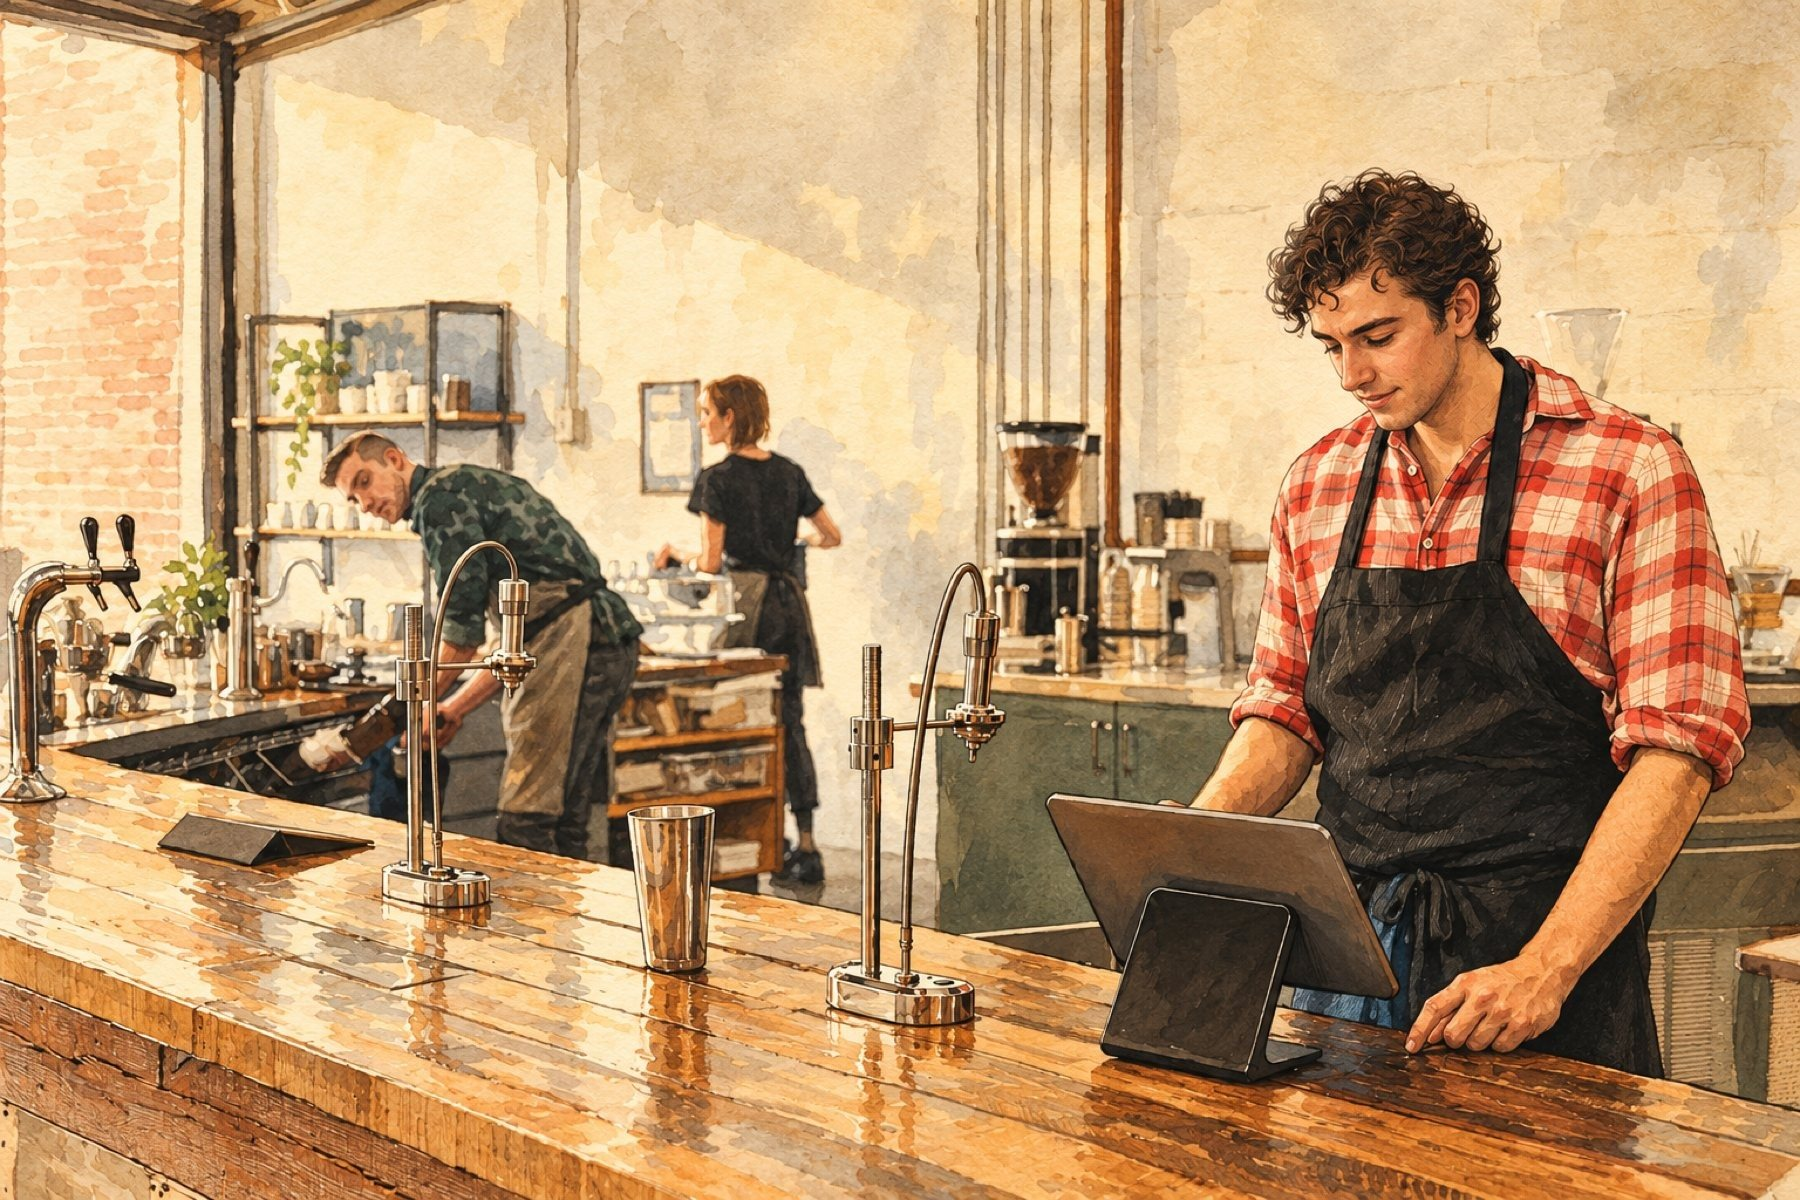
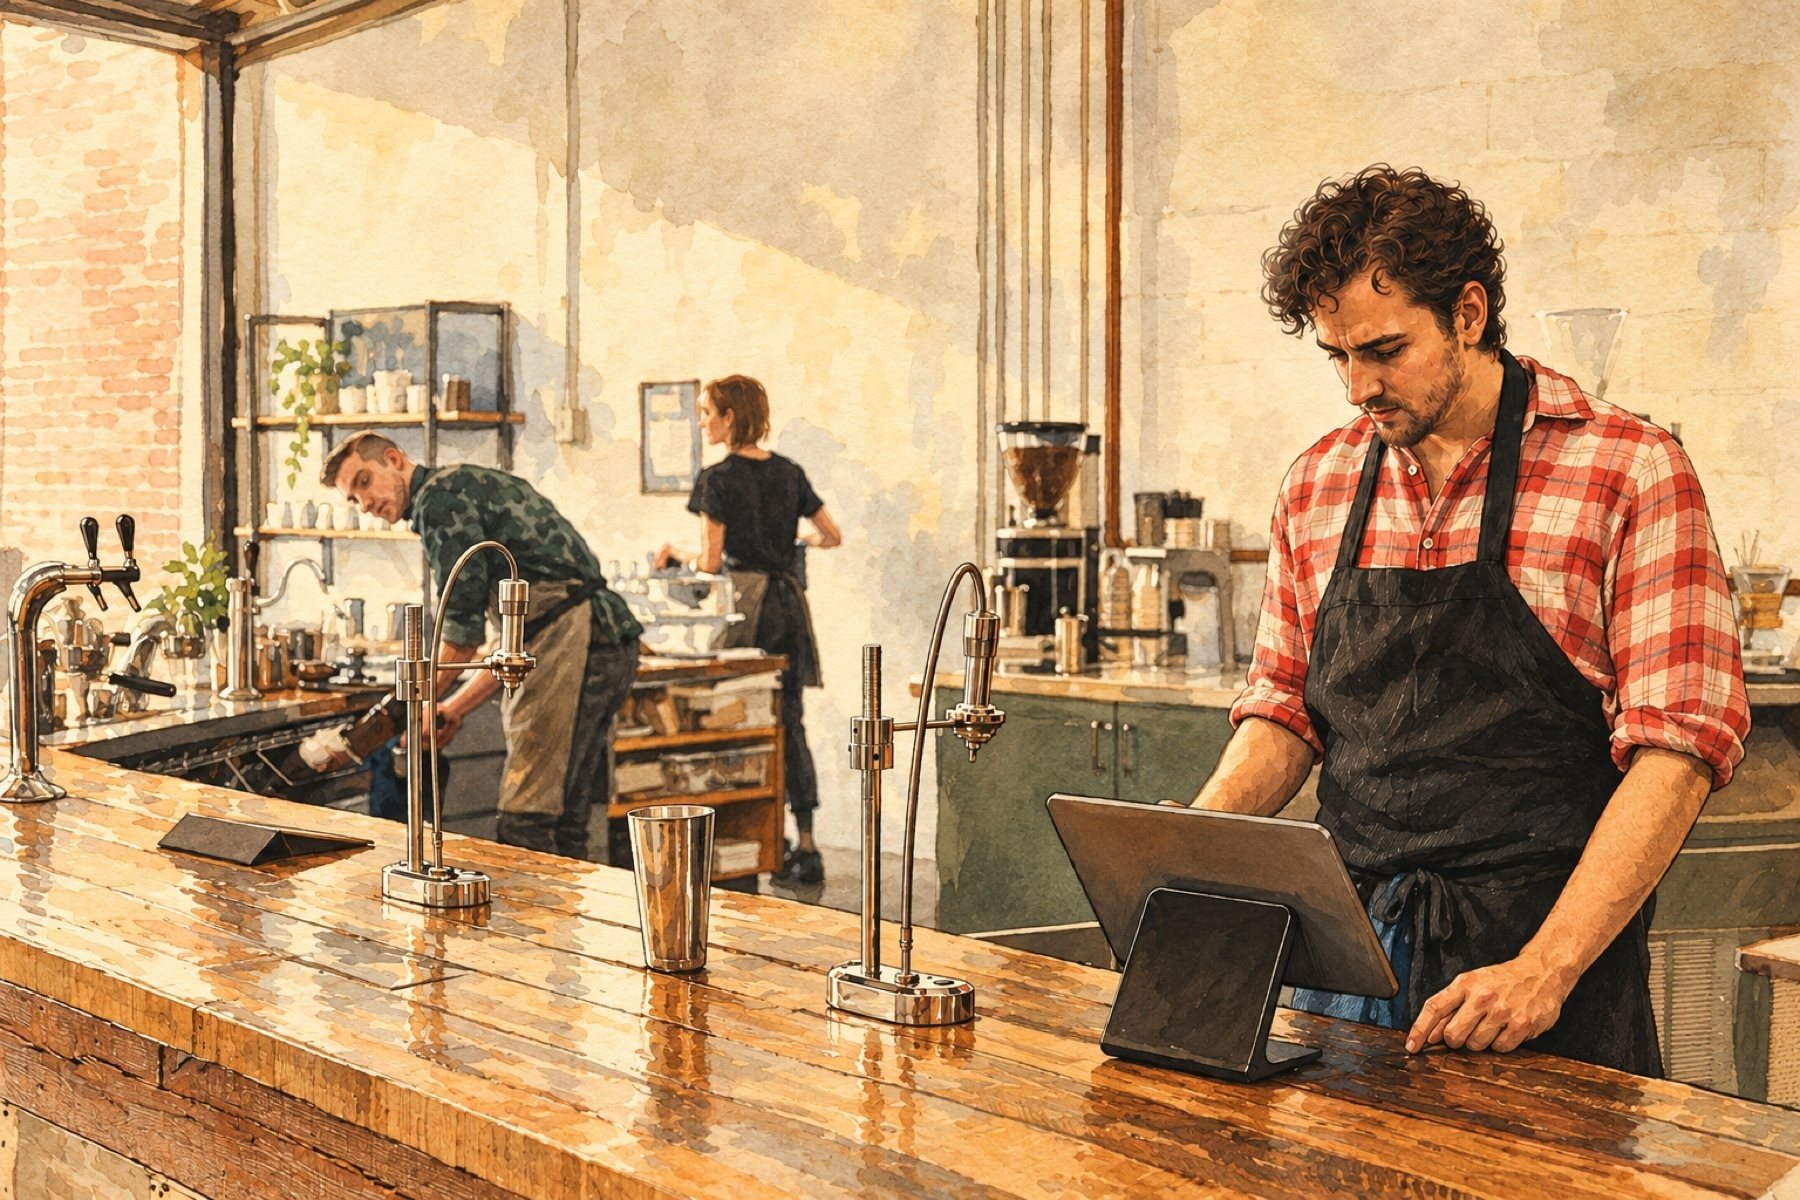
Exploration 49: the forecast's man at the counter keeps his own face, with curly hair

Changed region(s): [[0.6844, 0.1233, 0.84, 0.4008]]

diff --git a/explorations/49-ink/NOTES.md b/explorations/49-ink/NOTES.md
@@ -26,8 +26,7 @@ The illustrations were made with Codex's image generation tool (`image_gen`, its
 
 They are AI-generated, which is a different promise from a photograph or a commissioned drawing.
 Hands and faces were checked at full size; none looked wrong.
-At Rex's request the man at the counter in `forecast` was given a real person's likeness, from a photograph Rex supplied; only his head was regenerated and pasted back, so the rest of the drawing is unchanged.
-That person's agreement is needed before this ships.
+At Rex's request the man at the counter in `forecast` has tight curly hair; only his head was regenerated and pasted back, so his face and the rest of the drawing are unchanged.
 Generated at a smaller size and enlarged to 1800 and 1600px wide, so they are soft up close.
 Before anything like this ships, an illustrator drawing from one real restaurant is the better source.
 
